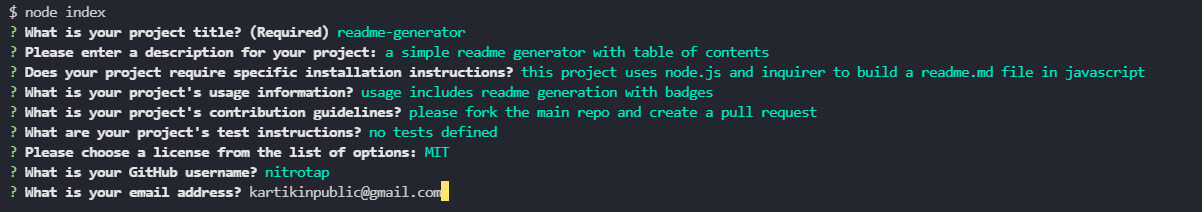
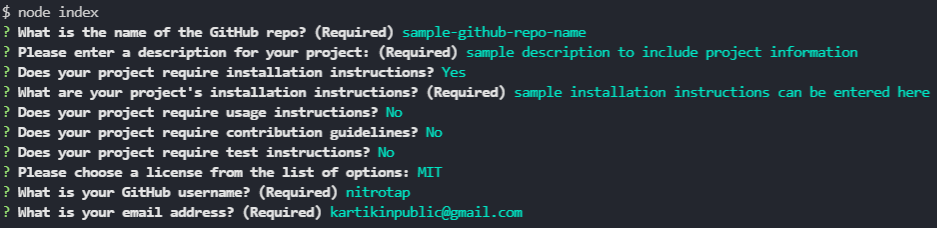
adding screenshots and video

Changed region(s): [[0.0, 0.1132, 1.0, 0.9623], [0.0, 0.0283, 0.1237, 0.0849]]

diff --git a/README.md b/README.md
@@ -1,68 +1,65 @@
-# 09 Node.js: Professional README Generator
+# Easy Readme
 
-When creating an open source project on GitHub, it’s important to have a high-quality README for the app. This should include what the app is for, how to use the app, how to install it, how to report issues, and how to make contributions&mdash;this last part increases the likelihood that other developers will contribute to the success of the project. 
+[![License: MIT](https://img.shields.io/badge/License-MIT-yellow.svg)](https://opensource.org/licenses/MIT)![badmath](https://img.shields.io/github/languages/top/nitrotap/easy-readme)
 
-You can quickly and easily generate a README file by using a command-line application to generate one. This allows the project creator to devote more time working on the project.
+## Description
 
-Your task is to create a command-line application that dynamically generates a professional README.md file from a user's input using the [Inquirer package](https://www.npmjs.com/package/inquirer). Review the [Guide to a Professional README](https://github.com/coding-boot-camp/potential-enigma/blob/master/readme-guide.md) as a reminder of everything that a high-quality, professional README should contain. 
+Easy Readme is a command-line app using node.js, npm, and inquirer. The CLI walks the user through questions about their project, and generates a professional, customized readme.md file in the /dist folder. The readme incorporates dynamically generated table of contents, badges based on the selected license, and generates a markdown file to add to your repo.
 
-The application will be invoked by using the following command:
+## Table of Contents
+
+- [Installation](#installation)
+- [Usage](#usage)
+- [Walk-through Video](#Walk-through)
+- [License](#License)
+
+## Installation
+
+Node.js is required. Download from GitHub and navigate to the extracted downloaded folder from your terminal.
+
+## Usage Information
+
+The application is started with the following command:
 
 ```
 node index.js
 ```
 
-Because this application won’t be deployed, you’ll also need to provide a link to a walkthrough video that demonstrates its functionality. Revisit 2.2.4: Screencastify Tutorial in Module 2 of the **prework** as a refresher on how to record video from your computer. You’ll need to submit a link to the video **and** add it to the README of your project.
+## Walk-through
 
-Before you start, clone the [starter code](https://github.com/coding-boot-camp/potential-enigma).
+<iframe src="https://drive.google.com/file/d/1GOrqbDBDDhmLev32BxSA7jTfq8CSXPIE/preview" width="640" height="480" allow="autoplay"></iframe>
 
-## User Story
+[Walk-through Video](https://drive.google.com/file/d/1GOrqbDBDDhmLev32BxSA7jTfq8CSXPIE/view)
 
-```
-AS A developer
-I WANT a README generator
-SO THAT I can quickly create a professional README for a new project
-```
+## Screen Shots
 
-## Acceptance Criteria
+<img src="./assets/images/cli-screen-shot.png" width="50%" height="50%">
 
-```
-GIVEN a command-line application that accepts user input
-WHEN I am prompted for information about my application repository
-THEN a high-quality, professional README.md is generated with the title of my project and sections entitled Description, Table of Contents, Installation, Usage, License, Contributing, Tests, and Questions
-WHEN I enter my project title
-THEN this is displayed as the title of the README
-WHEN I enter a description, installation instructions, usage information, contribution guidelines, and test instructions
-THEN this information is added to the sections of the README entitled Description, Installation, Usage, Contributing, and Tests
-WHEN I choose a license for my application from a list of options
-THEN a badge for that license is added near the top of the README and a notice is added to the section of the README entitled License that explains which license the application is covered under
-WHEN I enter my GitHub username
-THEN this is added to the section of the README entitled Questions, with a link to my GitHub profile
-WHEN I enter my email address
-THEN this is added to the section of the README entitled Questions, with instructions on how to reach me with additional questions
-WHEN I click on the links in the Table of Contents
-THEN I am taken to the corresponding section of the README
-```
+### [Sample Readme](./dist/sample-readme.md)
 
-## Getting Started
+<img src="./assets/images/readme-screen-shot.png" width="25%" height="20%">
 
-Here are some guidelines to help you get started:
+<br />
 
-* Create a `.gitignore` file and include `node_modules/` and `.DS_Store/` so that your `node_modules` directory isn't tracked or uploaded to GitHub. Be sure to create your `.gitignore` file before installing any npm dependencies.
+## License
 
-* Make sure that your repo includes a `package.json` with the required dependencies. You can create one by running `npm init` when you first set up the project, before installing any dependencies.
+[![License: MIT](https://img.shields.io/badge/License-MIT-yellow.svg)](https://opensource.org/licenses/MIT)
 
-* Include a video of the typical user flow through your application. This includes views of the prompts and the responses after their selection.
+MIT
 
-* Include any other screenshots you deem necessary to help someone who has never been introduced to your application understand the purpose and function of it. This is how you will communicate to potential employers or other developers in the future what you built and why, and to show how it works.
+Copyright 2022 Kartik Jevaji
+Permission is hereby granted, free of charge, to any person obtaining a copy of this software and associated documentation files (the "Software"), to deal in the Software without restriction, including without limitation the rights to use, copy, modify, merge, publish, distribute, sublicense, and/or sell copies of the Software, and to permit persons to whom the Software is furnished to do so, subject to the following conditions:
 
+The above copyright notice and this permission notice shall be included in all copies or substantial portions of the Software.
+
+THE SOFTWARE IS PROVIDED "AS IS", WITHOUT WARRANTY OF ANY KIND, EXPRESS OR IMPLIED, INCLUDING BUT NOT LIMITED TO THE WARRANTIES OF MERCHANTABILITY, FITNESS FOR A PARTICULAR PURPOSE AND NONINFRINGEMENT. IN NO EVENT SHALL THE AUTHORS OR COPYRIGHT HOLDERS BE LIABLE FOR ANY CLAIM, DAMAGES OR OTHER LIABILITY, WHETHER IN AN ACTION OF CONTRACT, TORT OR OTHERWISE, ARISING FROM, OUT OF OR IN CONNECTION WITH THE SOFTWARE OR THE USE OR OTHER DEALINGS IN THE SOFTWARE.`
 
 ## Review
 
 You are required to submit the following for review:
 
-* A walkthrough video demonstrating the functionality of the application.
+- A walk-through video demonstrating the functionality of the application.
 
-* A sample README.md file for a project repository generated using your application.
+- A sample README.md file for a project repository generated using your application.
 
-* The URL of the GitHub repository. Give the repository a unique name and include a README describing the project.
+- The URL of the GitHub repository. Give the repository a unique name and include a README describing the project.

diff --git a/dist/sample-readme.md b/dist/sample-readme.md
@@ -1,13 +1,13 @@
-# easy-readme   
+# sample-github-repo-name   
   ## Description   
-  a readme maker   
+  sample description to include project information   
   
 [![License: MIT](https://img.shields.io/badge/License-MIT-yellow.svg)](https://opensource.org/licenses/MIT)
    
   
 
   ## Table of Contents   
-     
+  * [Installation](#Installation)   
      
   * [License](#License)   
      
@@ -16,7 +16,8 @@
 
 
   
-     
+  ## Installation
+sample installation instructions can be entered here   
 
      
 
@@ -36,5 +37,5 @@ THE SOFTWARE IS PROVIDED "AS IS", WITHOUT WARRANTY OF ANY KIND, EXPRESS OR IMPLI
 
   ## Questions   
 
-  Please reach out to me on [GitHub](https://github.com/nitrotap) or by email at email@email.com for any additional questions.   
+  Please reach out to me on [GitHub](https://github.com/nitrotap) or by email at kartikinpublic@gmail.com for any additional questions.   
 
